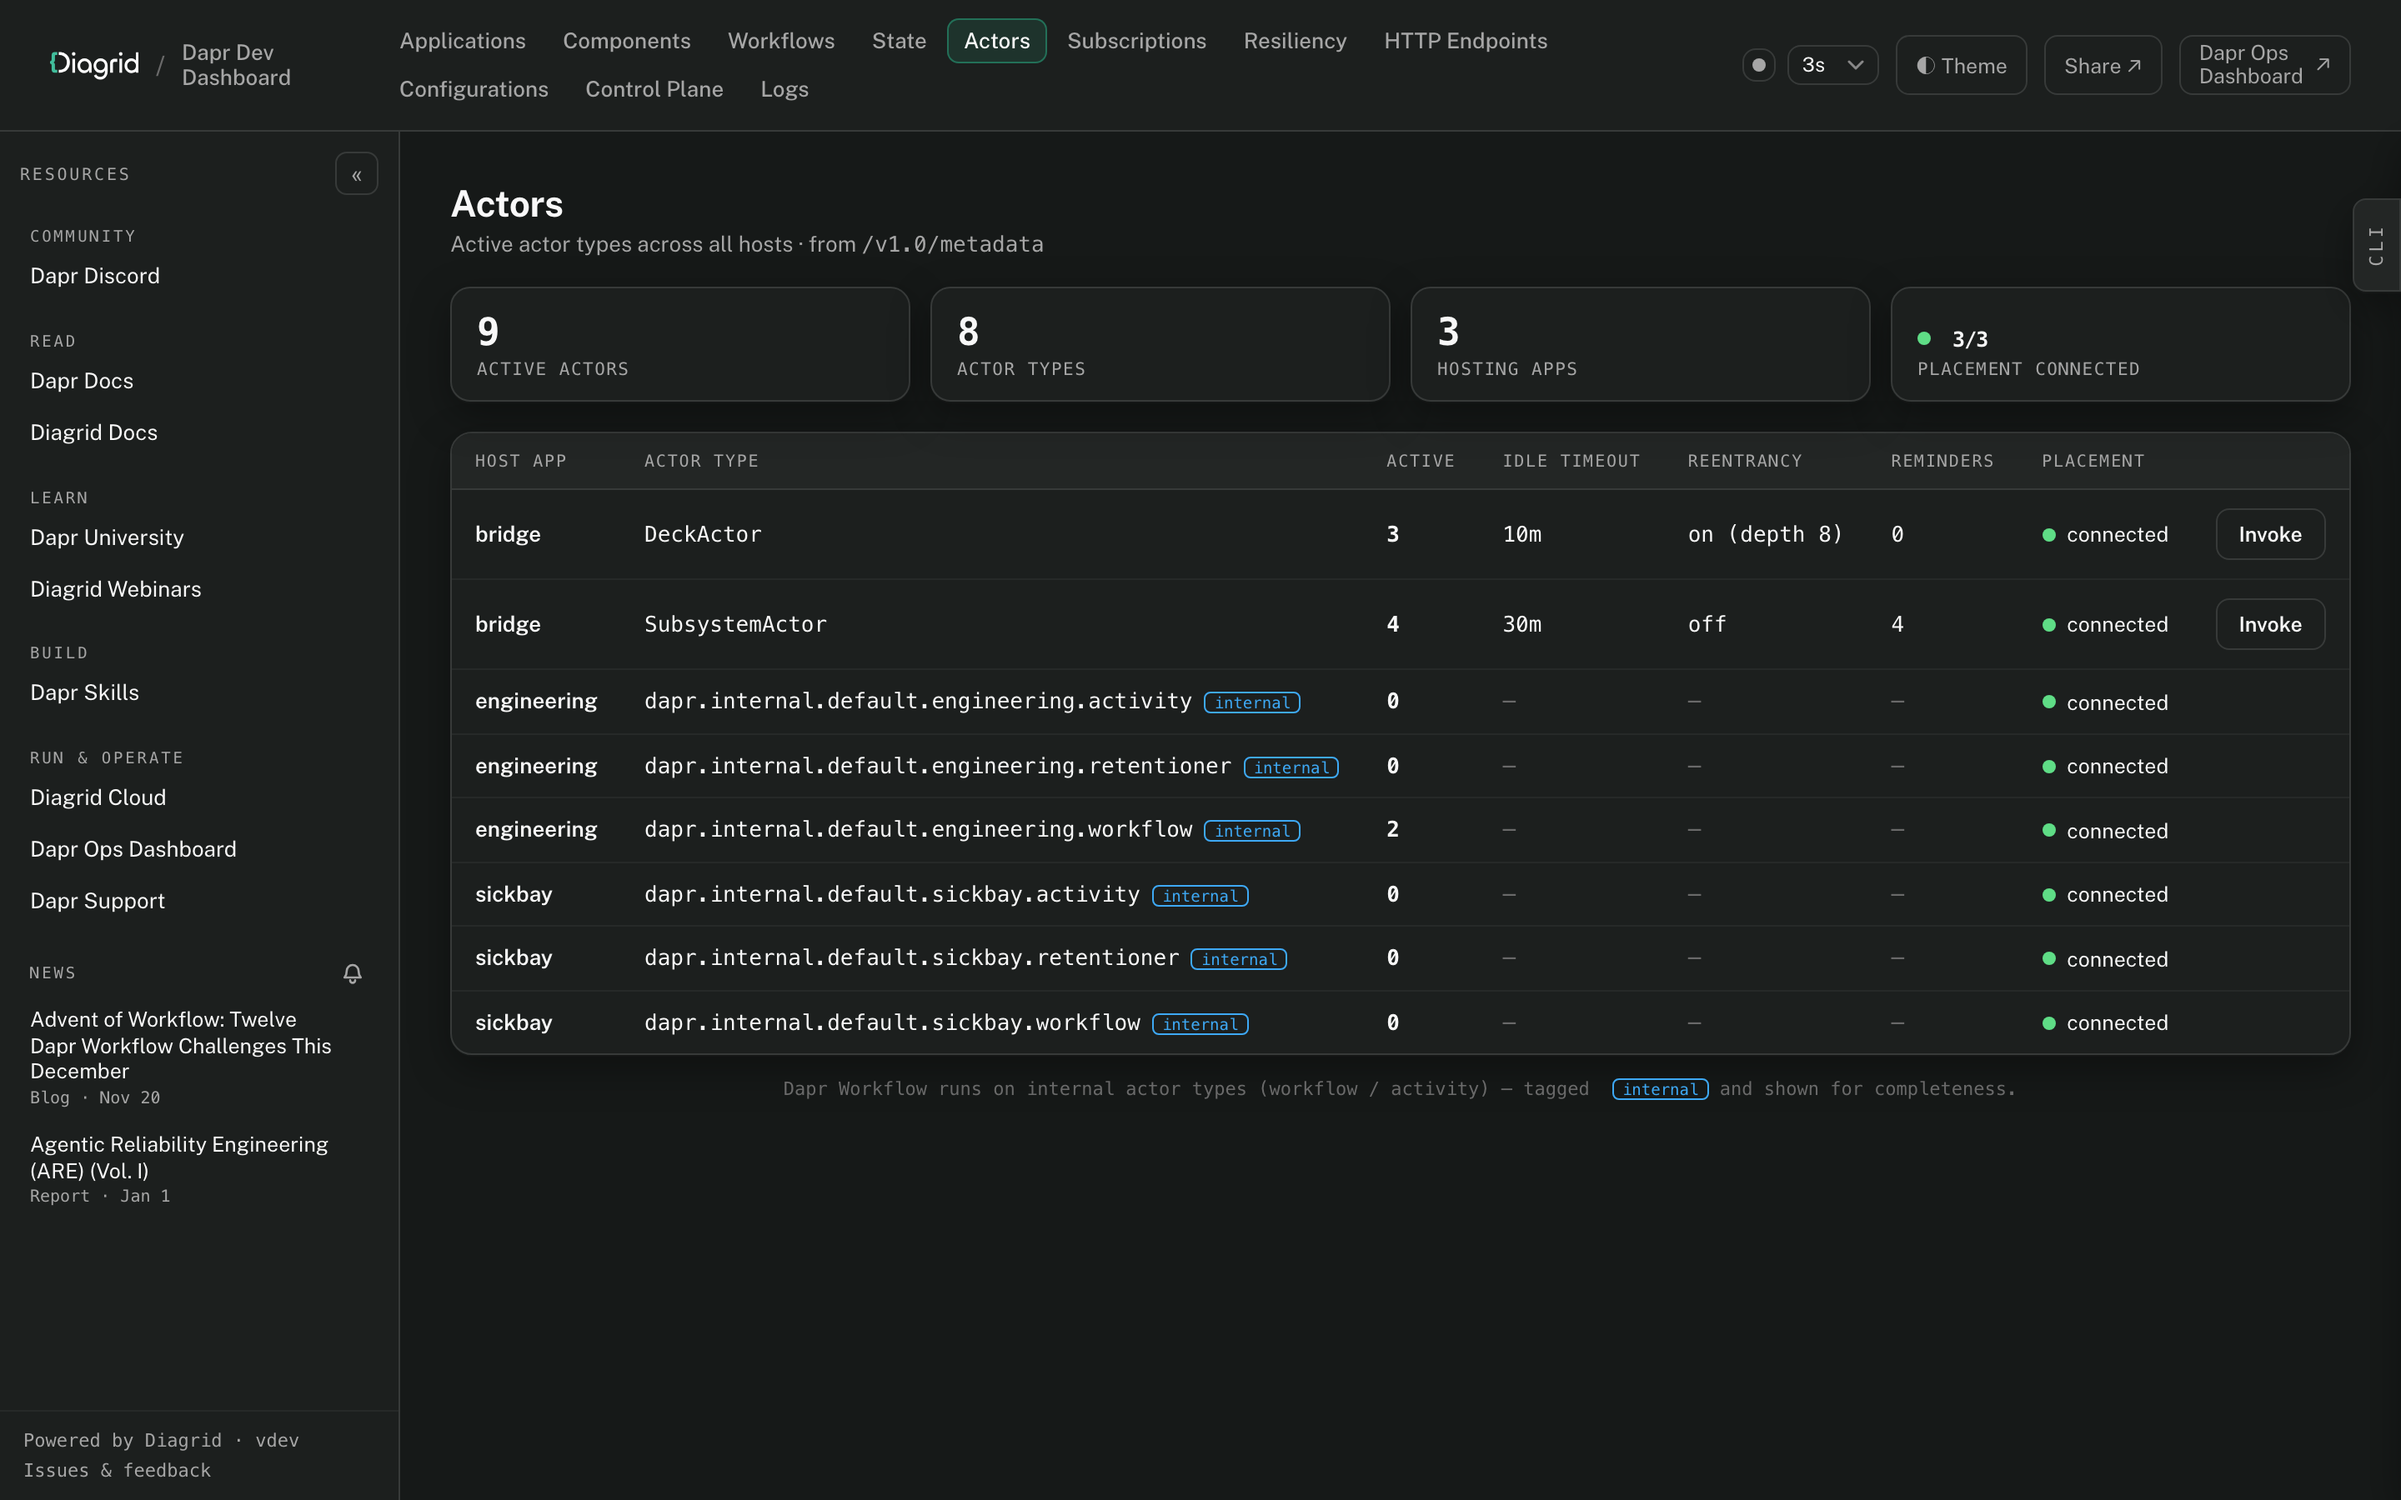
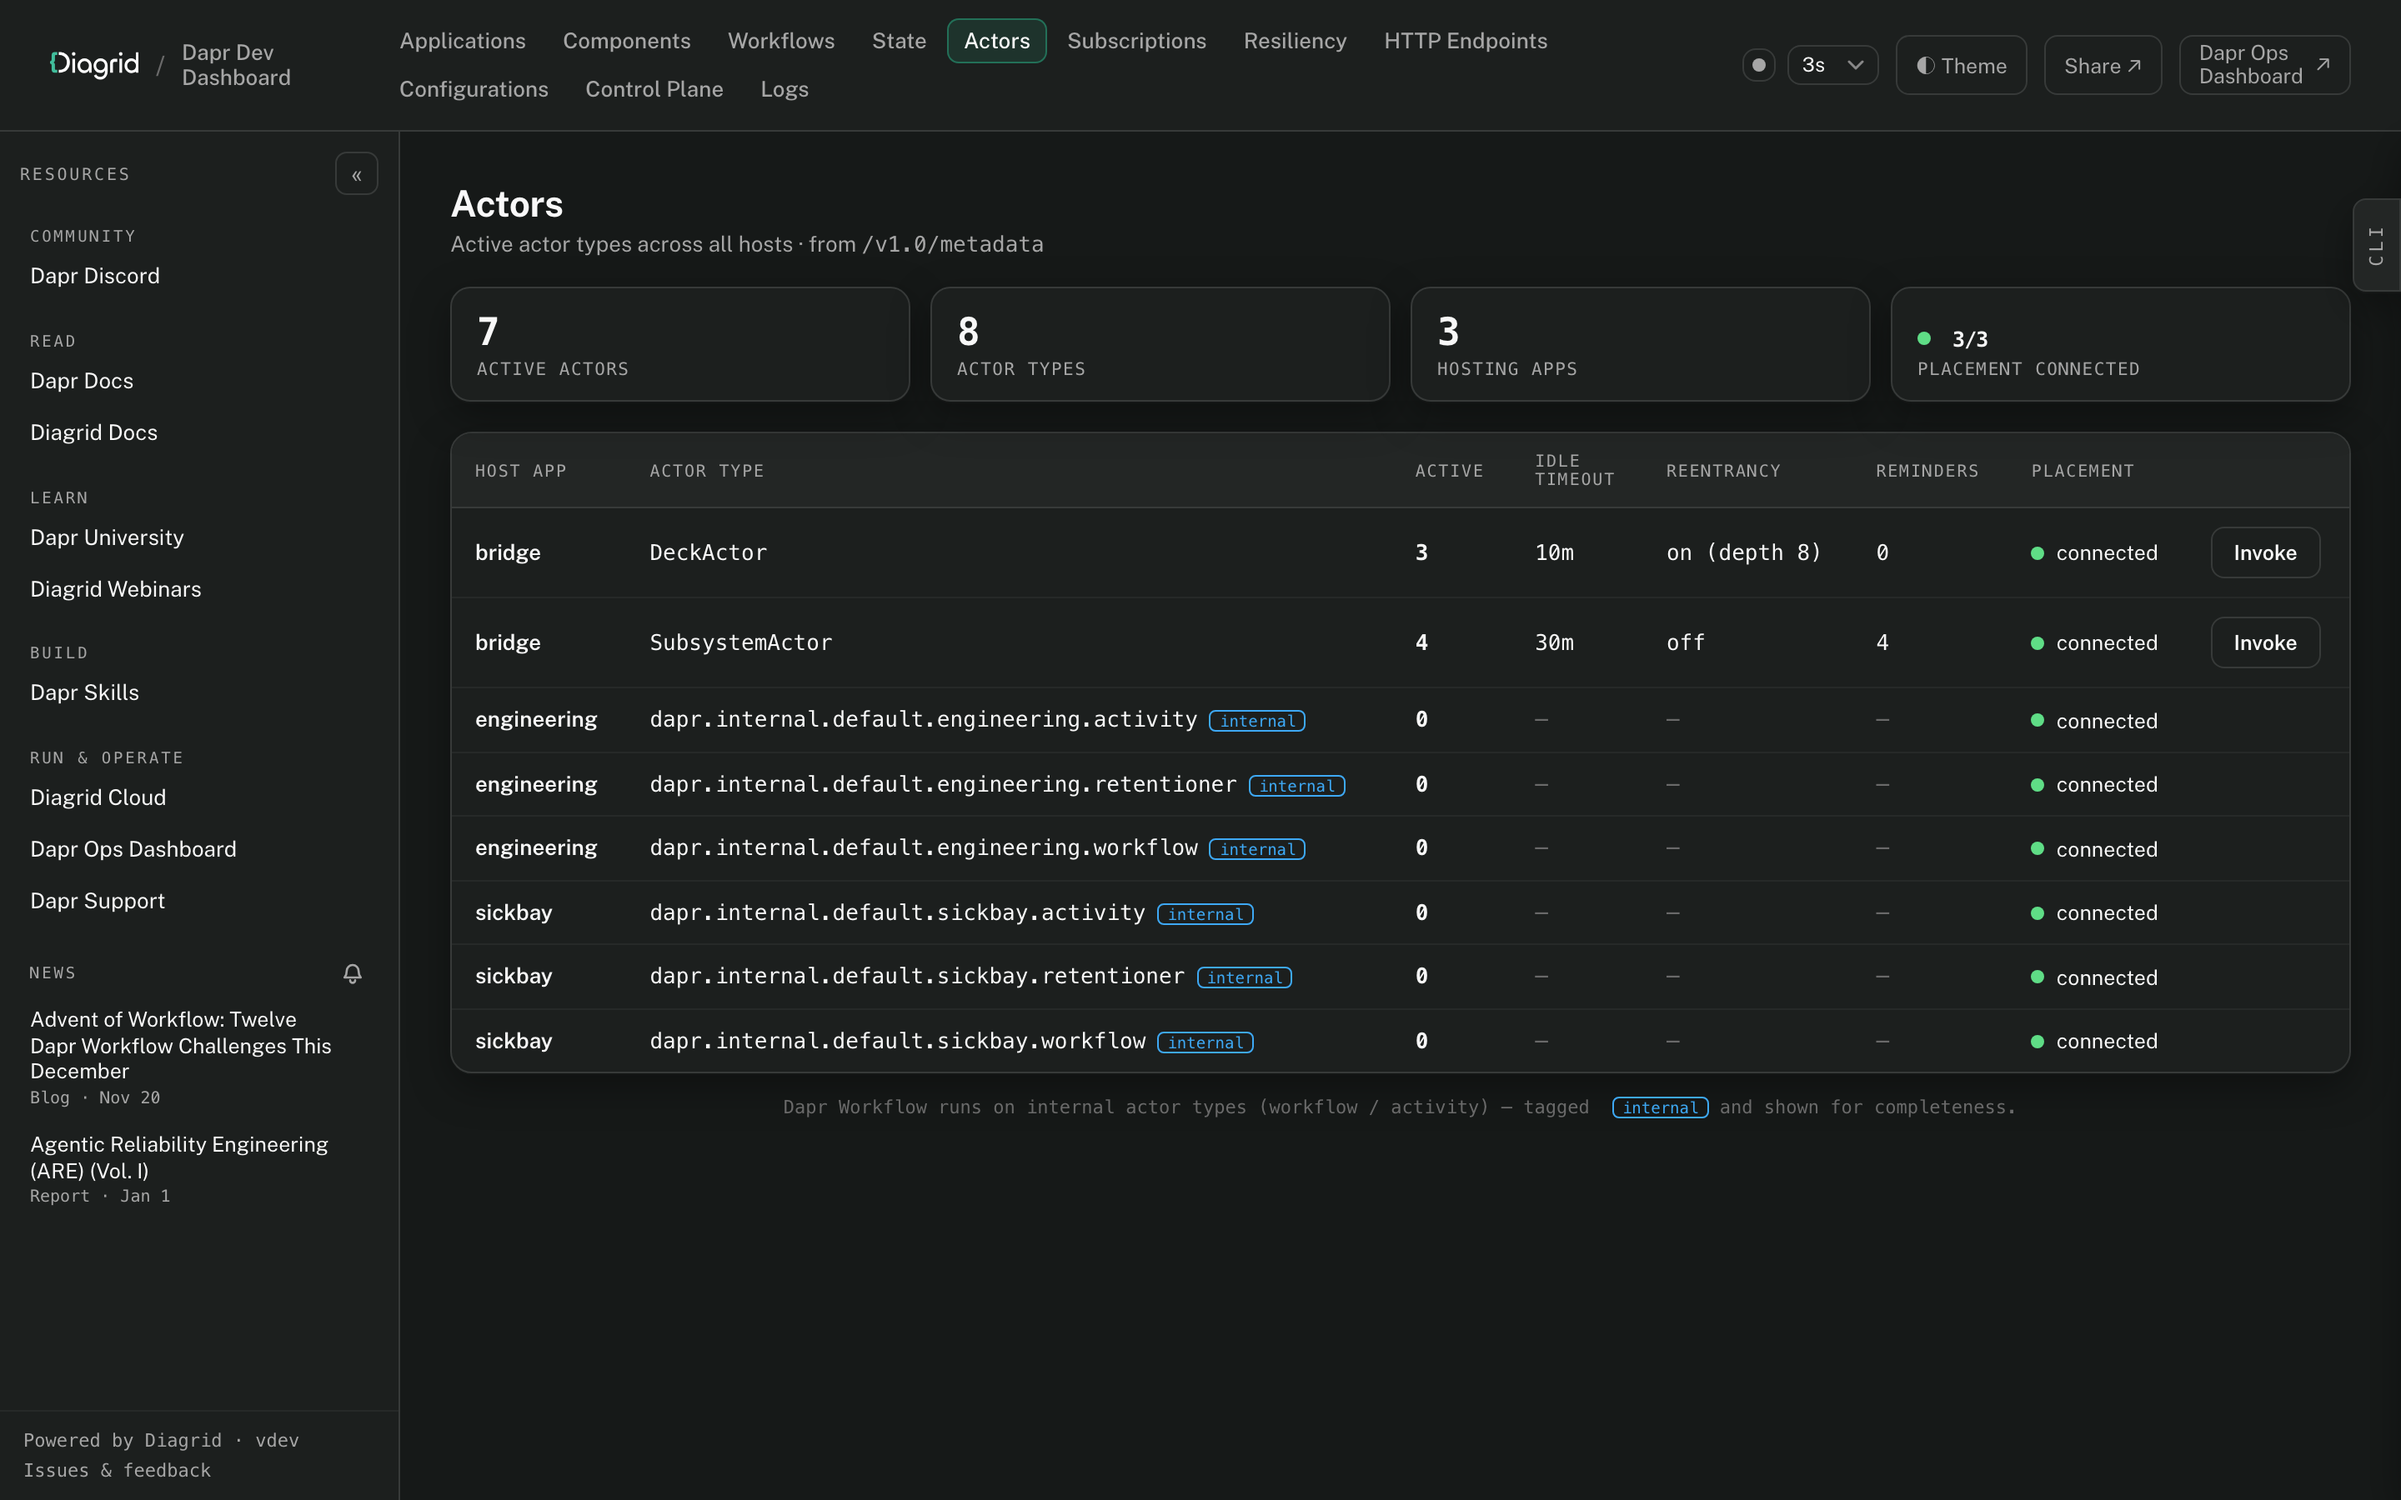
web: tighter Actors table (wrap internal types at dots, two-line idle timeout header, no-wrap reentrancy and Invoke)
Fixes the Invoke button being cut off at the table's right edge when the
Resources panel is open.

diff --git a/web/src/pages/Actors.tsx b/web/src/pages/Actors.tsx
@@ -1,4 +1,4 @@
-import { useState } from 'react'
+import { Fragment, useState } from 'react'
 import { Link, useSearchParams } from 'react-router-dom'
 import { useActors } from '../hooks/useResources'
 import { InvokeActorDialog } from '../components/InvokeActorDialog'
@@ -114,7 +114,11 @@ export function Actors() {
                 <th>Host app</th>
                 <th>Actor type</th>
                 <th>Active</th>
-                <th>Idle timeout</th>
+                <th>
+                  Idle
+                  <br />
+                  timeout
+                </th>
                 <th>Reentrancy</th>
                 <th>Reminders</th>
                 <th>Placement</th>
@@ -159,6 +163,26 @@ function Dash({ reason }: { reason?: string }) {
   )
 }
 
+/** Renders a dotted name with a line-break opportunity after each dot, so long
+ * internal actor types (dapr.internal.<ns>.<app>.workflow) wrap at the dots. */
+function DotBreaks({ text }: { text: string }) {
+  const parts = text.split('.')
+  return (
+    <>
+      {parts.map((p, i) => (
+        <Fragment key={i}>
+          {p}
+          {i < parts.length - 1 && (
+            <>
+              .<wbr />
+            </>
+          )}
+        </Fragment>
+      ))}
+    </>
+  )
+}
+
 function ActorRow({ actor, onInvoke }: { actor: Actor; onInvoke: () => void }) {
   const key = rowKey(actor)
   const cfg = actor.config
@@ -174,7 +198,9 @@ function ActorRow({ actor, onInvoke }: { actor: Actor; onInvoke: () => void }) {
         </Link>
       </td>
       <td className="mono">
-        <Link className="celllink" to={actorPath(key, actor.type)}>{actor.type}</Link>
+        <Link className="celllink" to={actorPath(key, actor.type)}>
+          <DotBreaks text={actor.type} />
+        </Link>
         {actor.internal && <span className="tag-int">internal</span>}
       </td>
       <td className="mono tabnum b">{actor.count}</td>
@@ -185,7 +211,7 @@ function ActorRow({ actor, onInvoke }: { actor: Actor; onInvoke: () => void }) {
           <Dash reason={actor.configUnavailable?.reason} />
         )}
       </td>
-      <td className="mono tabnum">
+      <td className="mono tabnum reent nowrap">
         {cfg ? reentrancyLabel(cfg.reentrancy) : <Dash reason={actor.configUnavailable?.reason} />}
       </td>
       <td className="mono tabnum">
@@ -203,7 +229,7 @@ function ActorRow({ actor, onInvoke }: { actor: Actor; onInvoke: () => void }) {
           <Dash />
         )}
       </td>
-      <td>
+      <td className="nowrap">
         {!actor.internal && (
           <button type="button" className="btn ghost" onClick={onInvoke}>
             Invoke

diff --git a/web/src/pages/Actors.test.tsx b/web/src/pages/Actors.test.tsx
@@ -181,4 +181,24 @@ describe('Actors', () => {
     const plain = within(screen.getByRole('link', { name: 'Plain' }).closest('tr') as HTMLElement)
     expect(plain.getByRole('button', { name: 'Invoke' })).toBeInTheDocument()
   })
+
+  it('lets long actor types wrap after each dot and keeps compact columns', async () => {
+    server.use(
+      http.get('/api/actors', () =>
+        HttpResponse.json([row({ type: 'dapr.internal.default.order.workflow', internal: true }), row({ type: 'Plain' })]),
+      ),
+    )
+    renderAt()
+    const link = await screen.findByRole('link', { name: 'dapr.internal.default.order.workflow' })
+    // A break opportunity after each of the four dots; the visible text is unchanged.
+    expect(link.querySelectorAll('wbr')).toHaveLength(4)
+    expect(screen.getByRole('link', { name: 'Plain' }).querySelectorAll('wbr')).toHaveLength(0)
+    // "Idle timeout" header is split over two lines.
+    const idle = screen.getByRole('columnheader', { name: /idle\s*timeout/i })
+    expect(idle.querySelector('br')).not.toBeNull()
+    // Reentrancy values and the Invoke button never wrap.
+    const plain = screen.getByRole('link', { name: 'Plain' }).closest('tr') as HTMLElement
+    expect(within(plain).getByRole('button', { name: 'Invoke' }).closest('td')).toHaveClass('nowrap')
+    expect(plain.querySelector('td.reent')).toHaveClass('nowrap')
+  })
 })

diff --git a/web/src/styles/theme.css b/web/src/styles/theme.css
@@ -226,6 +226,7 @@ table.t { width: 100%; border-collapse: collapse; font-size: 13px; }
 table.t th { font-family: var(--mono); font-size: 10px; letter-spacing: .09em; text-transform: uppercase; color: var(--muted); text-align: left; font-weight: 500; padding: 11px 14px; background: var(--surface-2); border-bottom: 1px solid var(--line); white-space: nowrap; }
 table.t td { padding: 11px 14px; border-bottom: 1px solid var(--line-soft); vertical-align: middle; }
 table.t tbody tr:last-child td { border-bottom: none; }
+table.t td.nowrap { white-space: nowrap; }
 table.t.click tbody tr { cursor: pointer; }
 table.t.click tbody tr:hover { background: var(--surface-2); }
 .tabnum { font-variant-numeric: tabular-nums; }
